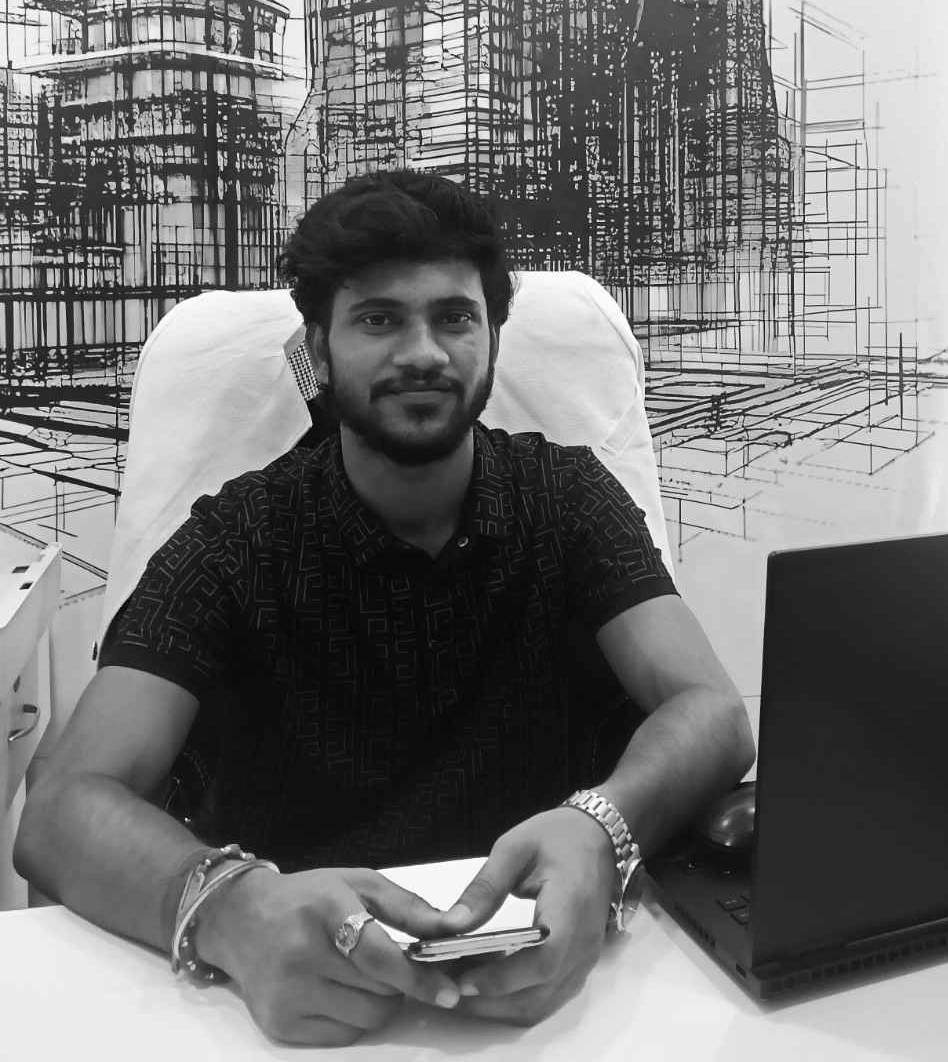
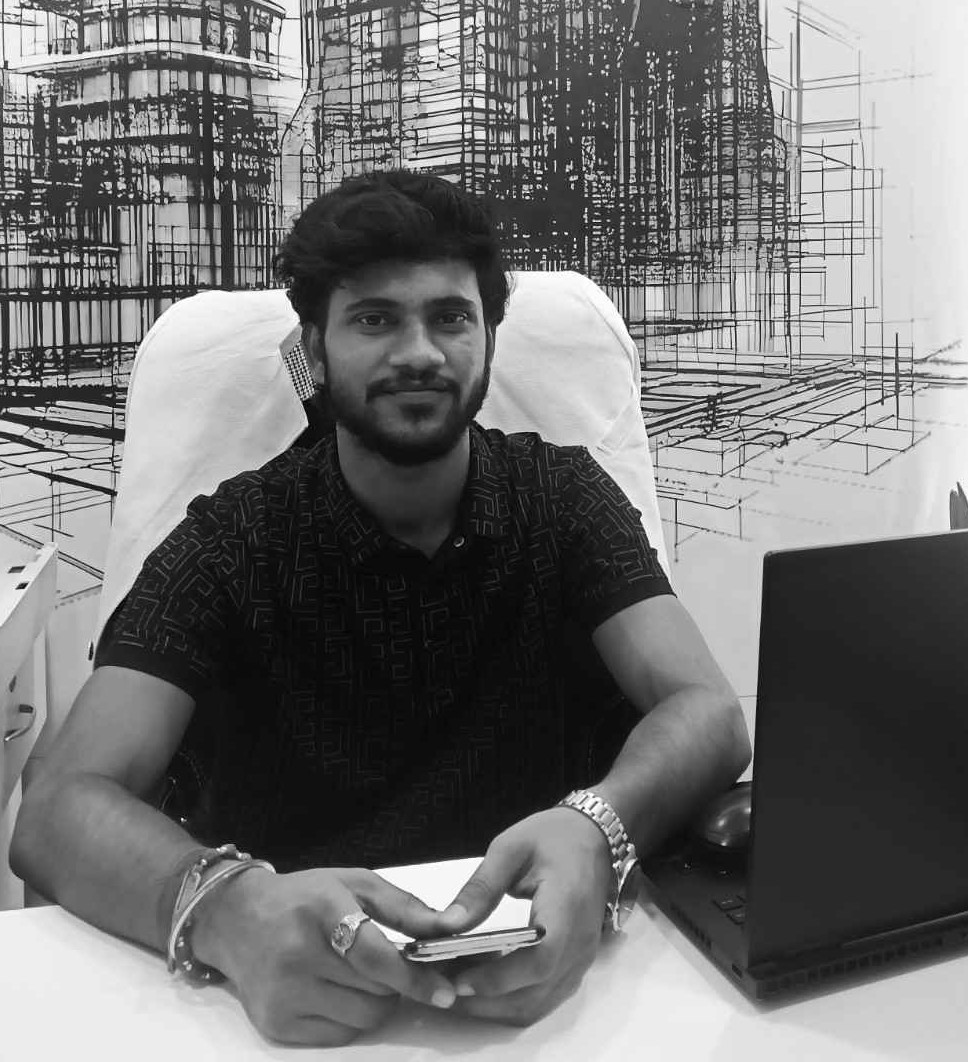
Updated assets and data

diff --git a/src/data.js b/src/data.js
@@ -54,7 +54,7 @@ export const siteData = {
       title: 'CEO & Founder:',
       titleAccent: 'Greenn Bugg House Deziign',
       bio:
-        'Rohit Prakash leads Greenn Bugg House Deziign with a refined vision for elevated architecture and interiors. His expertise blends contemporary luxury, sustainable planning, and thoughtful craftsmanship to deliver signature spaces that feel both timeless and welcoming. Under his leadership, the studio combines precise execution with inspiring innovation across every residential and commercial project.',
+        'Ar. Rohit Prakash is a graduate of Apeejay Institute of Technology – School of Architecture & Planning (AIT-SAP), Greater Noida, Uttar Pradesh, with a Bachelor s degree in Architecture. He founded Greenn Bugg House Deziign with a vision to create architecture that is timeless, innovative, and deeply connected to its context. His design philosophy is rooted in simplicity, functionality, and sustainability, with a strong emphasis on craftsmanship and attention to detail. Under his leadership, the firm delivers bespoke architectural and interior design solutions that balance aesthetics with purpose, creating spaces that inspire and endure.',
       image:
         '/image.jpeg',
       alt: 'CEO and Founder of Greenn Bugg House Deziign',